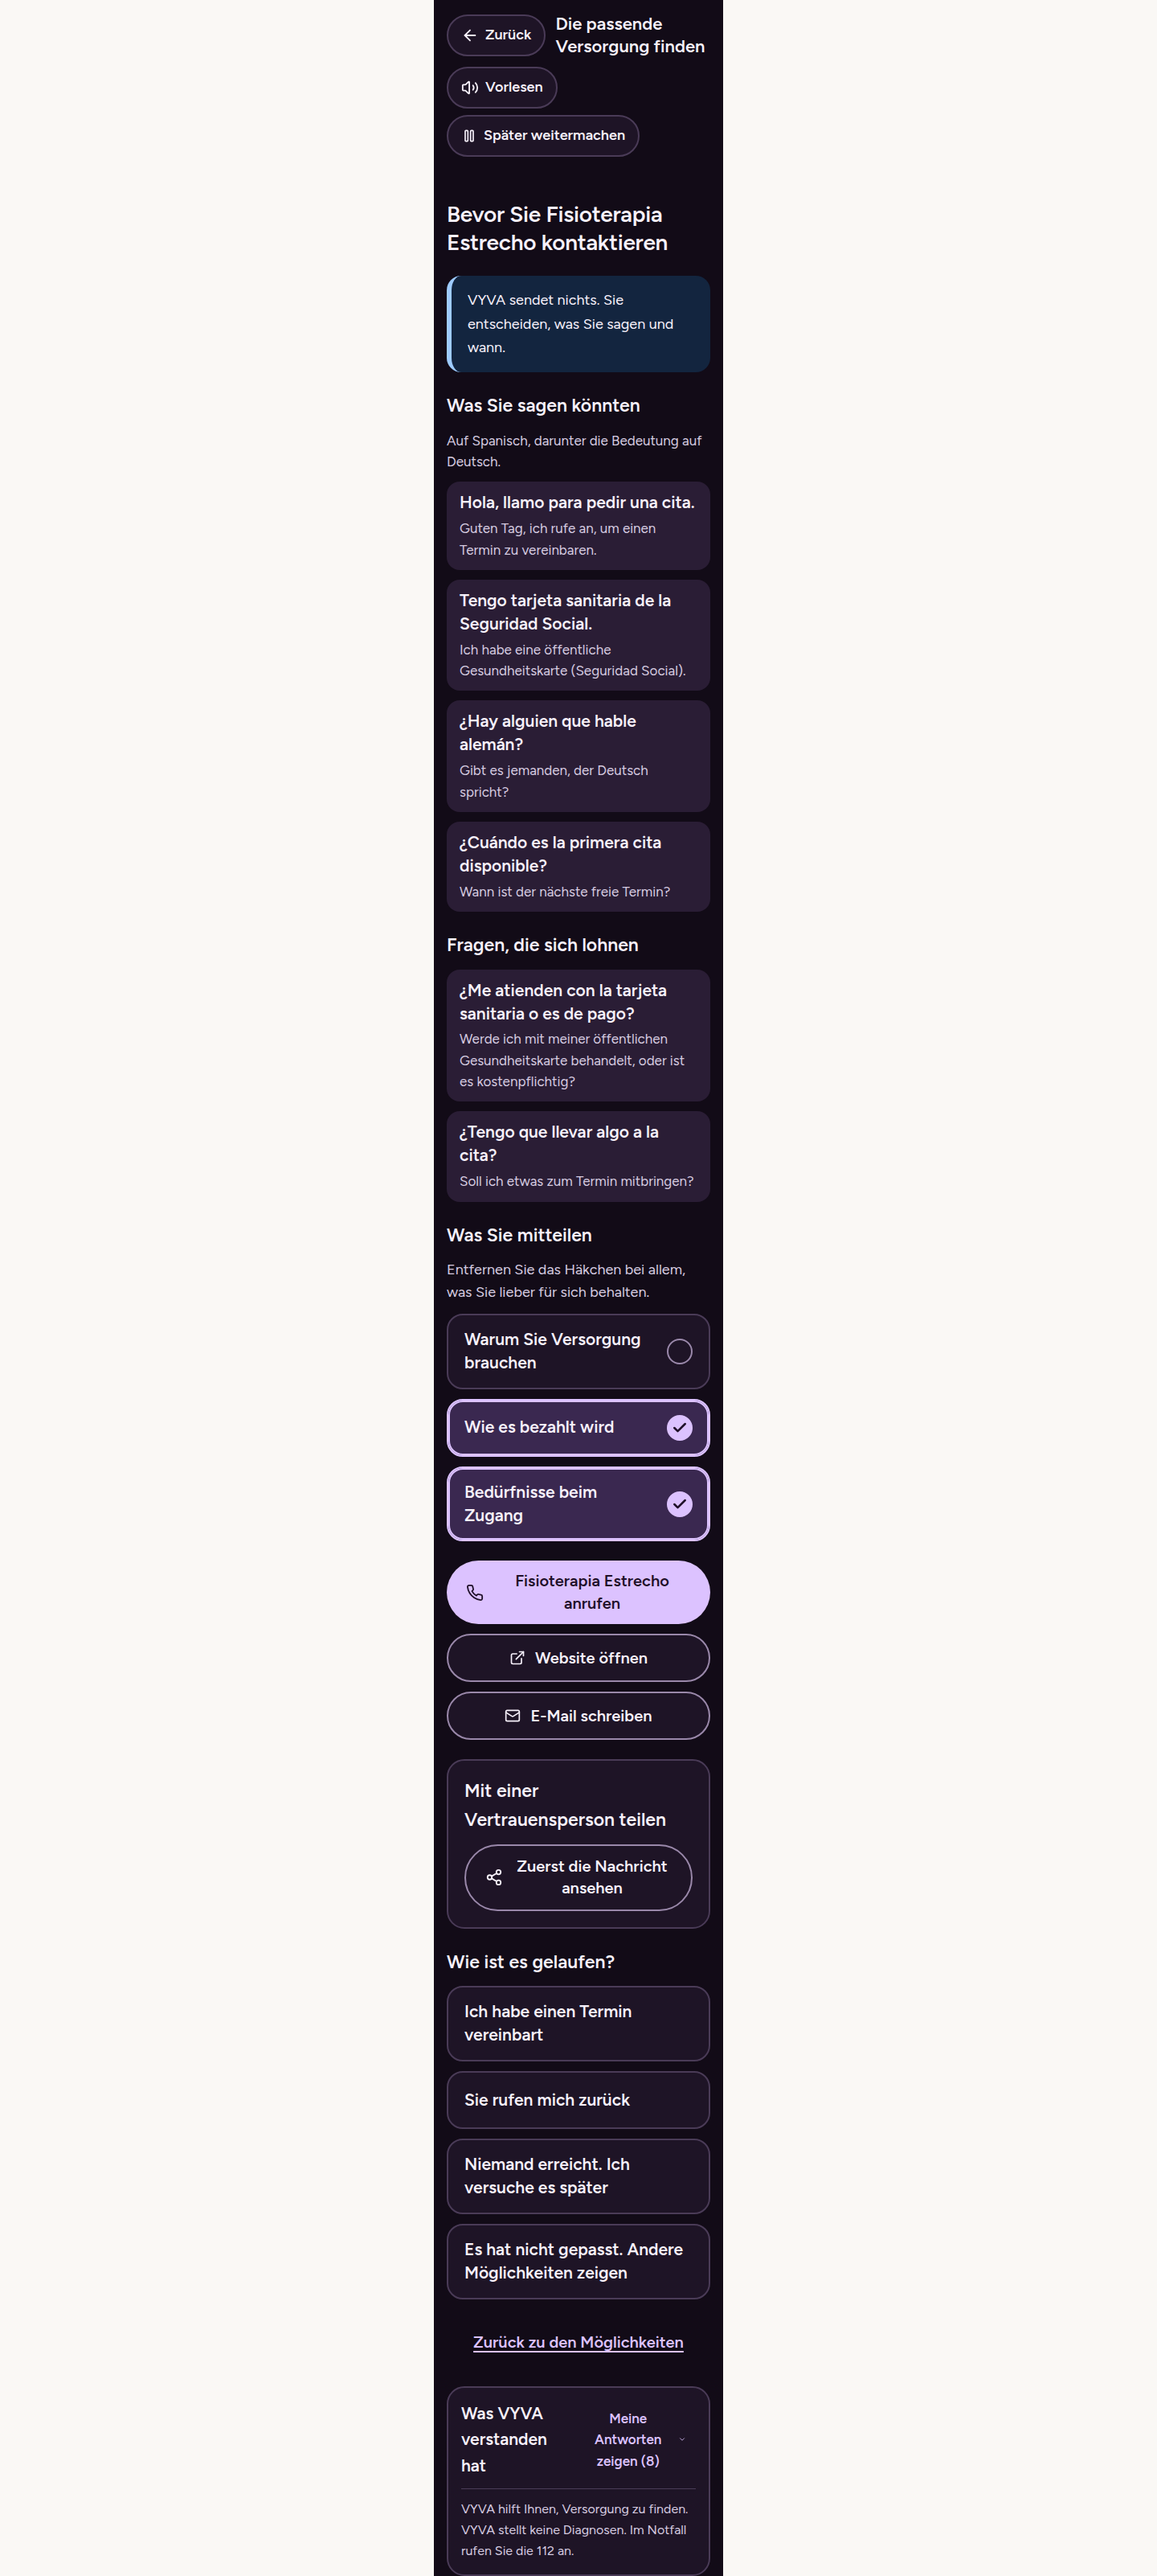
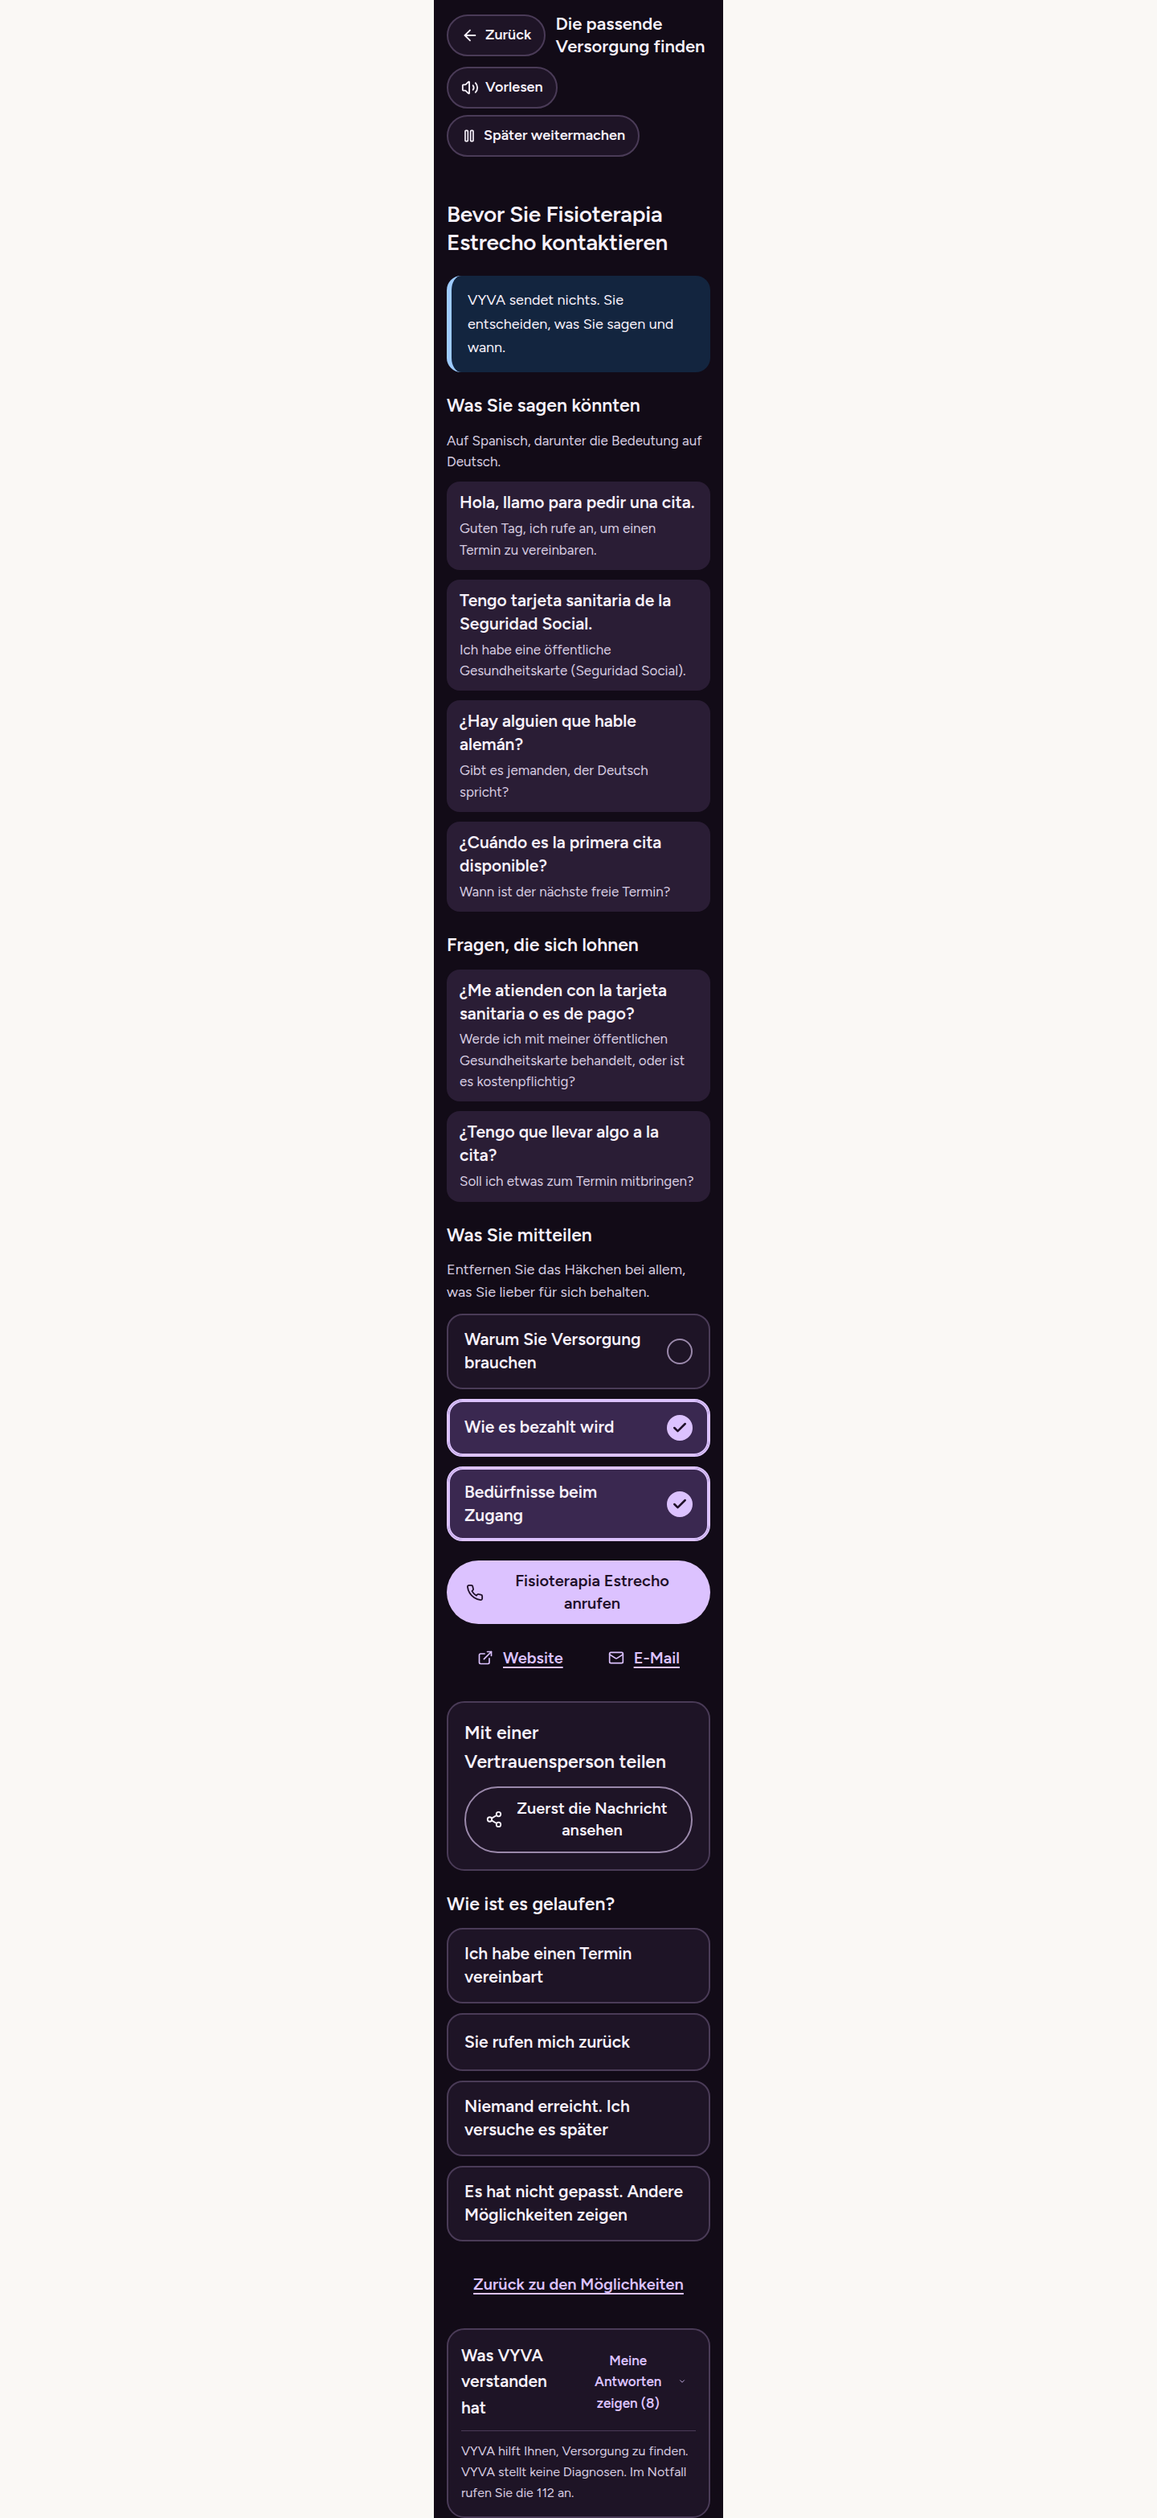
Care Finder: website and email as quiet links on one line
The contact step stacked three outlined buttons under Call. Website (or
booking page) and email are now short underlined links side by side
("Web · Correo"), still 60px tall for touch; Call stays the one primary
action. Shorter labels in en/es/fr/de.

Claude-Session: https://claude.ai/code/session_01VV49smnWjUgj9Kvixja9Ew

Changed region(s): [[0.375, 0.0, 0.625, 0.9911]]

diff --git a/src/features/careFinder/copy.ts b/src/features/careFinder/copy.ts
@@ -169,9 +169,9 @@ function englishCopy() {
       shareCompanion: "That someone will come along",
       call: (name: string) => `Call ${name}`,
       noPhone: "No phone number was found for this place.",
-      website: "Open their website",
-      email: "Email them",
-      bookingLink: "Open their booking page",
+      website: "Website",
+      email: "Email",
+      bookingLink: "Book online",
       confirmTitle: (name: string) => `Call ${name}?`,
       confirmBody: (phone: string) => `Your phone will call ${phone}. VYVA doesn't listen to or record the call.`,
       confirmYes: "Yes, call now",
@@ -393,9 +393,9 @@ function spanishCopy(): Copy {
       shareCompanion: "Que irá acompañado",
       call: (name: string) => `Llamar a ${name}`,
       noPhone: "No hemos encontrado un teléfono para este sitio.",
-      website: "Abrir su web",
-      email: "Enviarles un correo",
-      bookingLink: "Abrir su página de citas",
+      website: "Web",
+      email: "Correo",
+      bookingLink: "Pedir cita",
       confirmTitle: (name: string) => `¿Llamar a ${name}?`,
       confirmBody: (phone: string) => `Su teléfono llamará al ${phone}. VYVA no escucha ni graba la llamada.`,
       confirmYes: "Sí, llamar ahora",
@@ -618,9 +618,9 @@ function frenchCopy(): Copy {
       shareCompanion: "Que quelqu'un vous accompagnera",
       call: (name: string) => `Appeler ${name}`,
       noPhone: "Aucun numéro de téléphone n'a été trouvé pour ce lieu.",
-      website: "Ouvrir leur site web",
-      email: "Leur écrire un e-mail",
-      bookingLink: "Ouvrir leur page de rendez-vous",
+      website: "Site web",
+      email: "E-mail",
+      bookingLink: "Prendre rendez-vous",
       confirmTitle: (name: string) => `Appeler ${name} ?`,
       confirmBody: (phone: string) => `Votre téléphone va appeler le ${phone}. VYVA n'écoute pas et n'enregistre pas l'appel.`,
       confirmYes: "Oui, appeler maintenant",
@@ -843,9 +843,9 @@ function germanCopy(): Copy {
       shareCompanion: "Dass Sie begleitet werden",
       call: (name: string) => `${name} anrufen`,
       noPhone: "Für diesen Ort wurde keine Telefonnummer gefunden.",
-      website: "Website öffnen",
-      email: "E-Mail schreiben",
-      bookingLink: "Terminseite öffnen",
+      website: "Website",
+      email: "E-Mail",
+      bookingLink: "Termin buchen",
       confirmTitle: (name: string) => `${name} anrufen?`,
       confirmBody: (phone: string) => `Ihr Telefon ruft ${phone} an. VYVA hört nicht mit und zeichnet nichts auf.`,
       confirmYes: "Ja, jetzt anrufen",

diff --git a/src/features/careFinder/ContactStep.tsx b/src/features/careFinder/ContactStep.tsx
@@ -161,19 +161,24 @@ export function ContactStep({
         ) : (
           <Notice tone="warn">{c.noPhone}</Notice>
         )}
-        {option.booking_url ? (
-          <a href={option.booking_url} target="_blank" rel="noreferrer" className={actionClass("secondary")}>
-            <ExternalLink size={20} aria-hidden="true" /><span>{c.bookingLink}</span>
-          </a>
-        ) : option.website ? (
-          <a href={option.website} target="_blank" rel="noreferrer" className={actionClass("secondary")}>
-            <ExternalLink size={20} aria-hidden="true" /><span>{c.website}</span>
-          </a>
-        ) : null}
-        {option.email ? (
-          <a href={`mailto:${option.email}`} className={actionClass("secondary")} data-testid="link-care-email">
-            <Mail size={20} aria-hidden="true" className="shrink-0" /><span>{c.email}</span>
-          </a>
+        {/* Other ways to get in touch: quiet links on one line, not more big buttons. */}
+        {option.booking_url || option.website || option.email ? (
+          <div className="flex flex-wrap justify-center gap-x-2">
+            {option.booking_url ? (
+              <a href={option.booking_url} target="_blank" rel="noreferrer" className={actionClass("quiet", "cf-btn-inline px-4")}>
+                <ExternalLink size={20} aria-hidden="true" className="shrink-0" /><span>{c.bookingLink}</span>
+              </a>
+            ) : option.website ? (
+              <a href={option.website} target="_blank" rel="noreferrer" className={actionClass("quiet", "cf-btn-inline px-4")}>
+                <ExternalLink size={20} aria-hidden="true" className="shrink-0" /><span>{c.website}</span>
+              </a>
+            ) : null}
+            {option.email ? (
+              <a href={`mailto:${option.email}`} className={actionClass("quiet", "cf-btn-inline px-4")} data-testid="link-care-email">
+                <Mail size={20} aria-hidden="true" className="shrink-0" /><span>{c.email}</span>
+              </a>
+            ) : null}
+          </div>
         ) : null}
         {onArrangeRide ? (
           <div>

diff --git a/src/features/careFinder/CareFinder.test.tsx b/src/features/careFinder/CareFinder.test.tsx
@@ -207,7 +207,7 @@ describe("contact safeguards", () => {
     fireEvent.click(screen.getByTestId("button-show-options"));
     fireEvent.click(await screen.findByTestId("button-prepare-a"));
     expect(await screen.findByTestId("link-care-email")).toHaveAttribute("href", "mailto:cita@fisiocerca.es");
-    expect(screen.getByTestId("link-care-email")).toHaveTextContent("Email them");
+    expect(screen.getByTestId("link-care-email")).toHaveTextContent("Email");
     fireEvent.click(screen.getByTestId("button-care-share-preview"));
     expect(screen.getByTestId("care-share-preview").textContent).toContain("Email: cita@fisiocerca.es");
   });

diff --git a/src/features/careFinder/careFinder.css b/src/features/careFinder/careFinder.css
@@ -123,6 +123,11 @@
   width: 100%;
 }
 
+/* Small links that sit side by side (website, email) even on a phone. */
+.care-finder .cf-btn.cf-btn-inline {
+  width: auto;
+}
+
 .care-finder .cf-layout {
   display: grid;
   gap: 24px;
